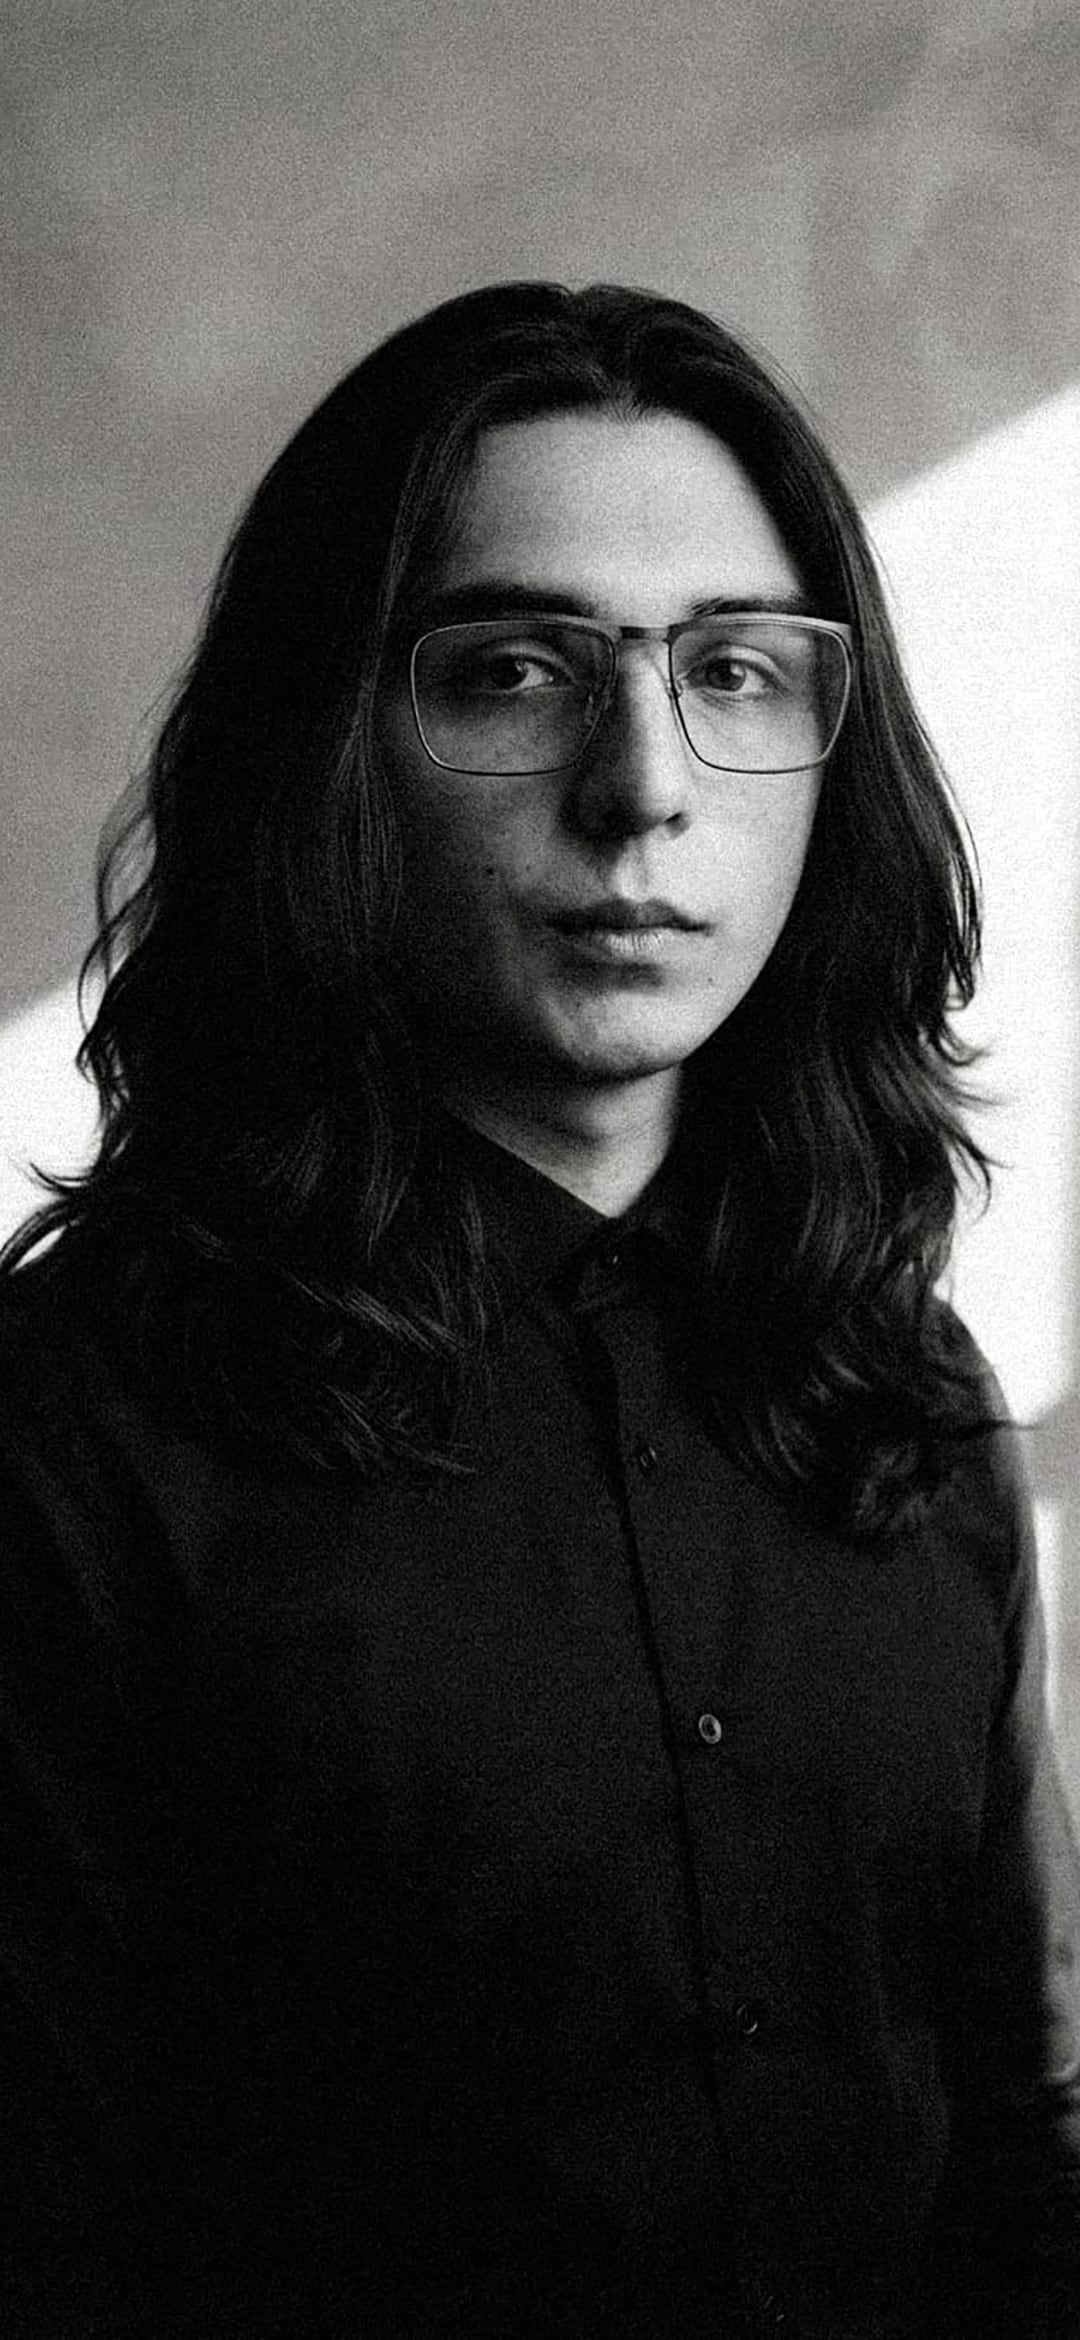
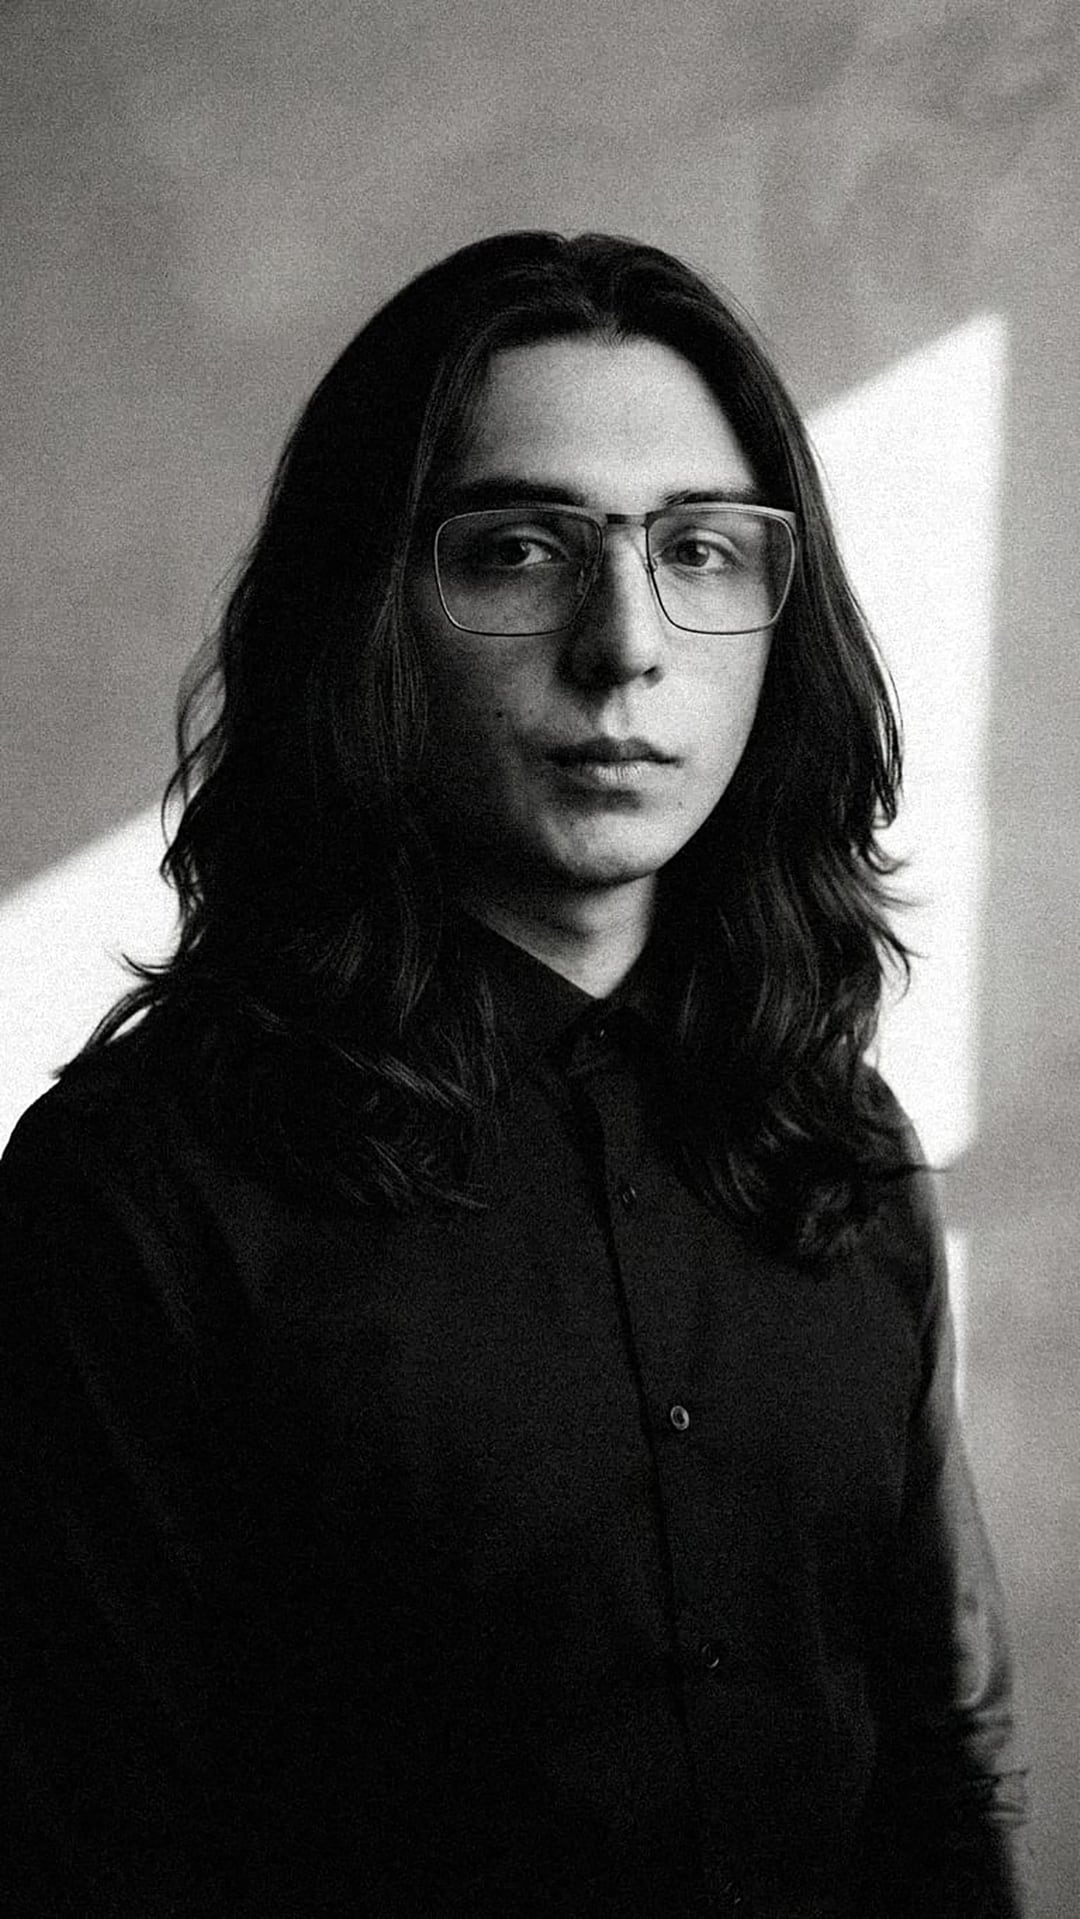
Biografia: marco 9:16 para mostrar la foto completa sin recorte (corrige opcion)

diff --git a/css/styles.css b/css/styles.css
@@ -893,12 +893,12 @@ html.light .header-logo-oscuro {
     text-shadow: 0 1px 4px rgba(0, 0, 0, 0.9);
 }
 
-/* Escritorio: foto a la derecha del texto, con un leve zoom (recorte suave)
-   y fija (sticky) para que acompañe la lectura sin dejar espacio vacío. */
+/* Escritorio: foto a la derecha del texto y fija (sticky). El marco tiene la
+   misma proporción que la foto (9:16) para que se vea COMPLETA, sin recorte. */
 @media (min-width: 768px) {
     .bio-container {
         display: grid;
-        grid-template-columns: minmax(0, 1fr) 360px;
+        grid-template-columns: minmax(0, 1fr) 400px;
         gap: 2.5rem;
         align-items: start;
     }
@@ -916,7 +916,8 @@ html.light .header-logo-oscuro {
         align-self: start;
         width: 100%;
         max-width: none;
-        height: min(80vh, 780px);
+        aspect-ratio: 9 / 16;
+        max-height: calc(100vh - 8rem);
         margin: 0;
         overflow: hidden;
     }

diff --git a/index.html b/index.html
@@ -26,7 +26,7 @@
     <!-- Framework utilitario Tailwind CSS (compilado localmente: solo las clases usadas) -->
     <link rel="stylesheet" href="css/tailwind.min.css?v=20261013s">
     <!-- Hoja de estilos personalizada desacoplada -->
-    <link rel="stylesheet" href="css/styles.css?v=20261016d">
+    <link rel="stylesheet" href="css/styles.css?v=20261016e">
 </head>
 
 <body
